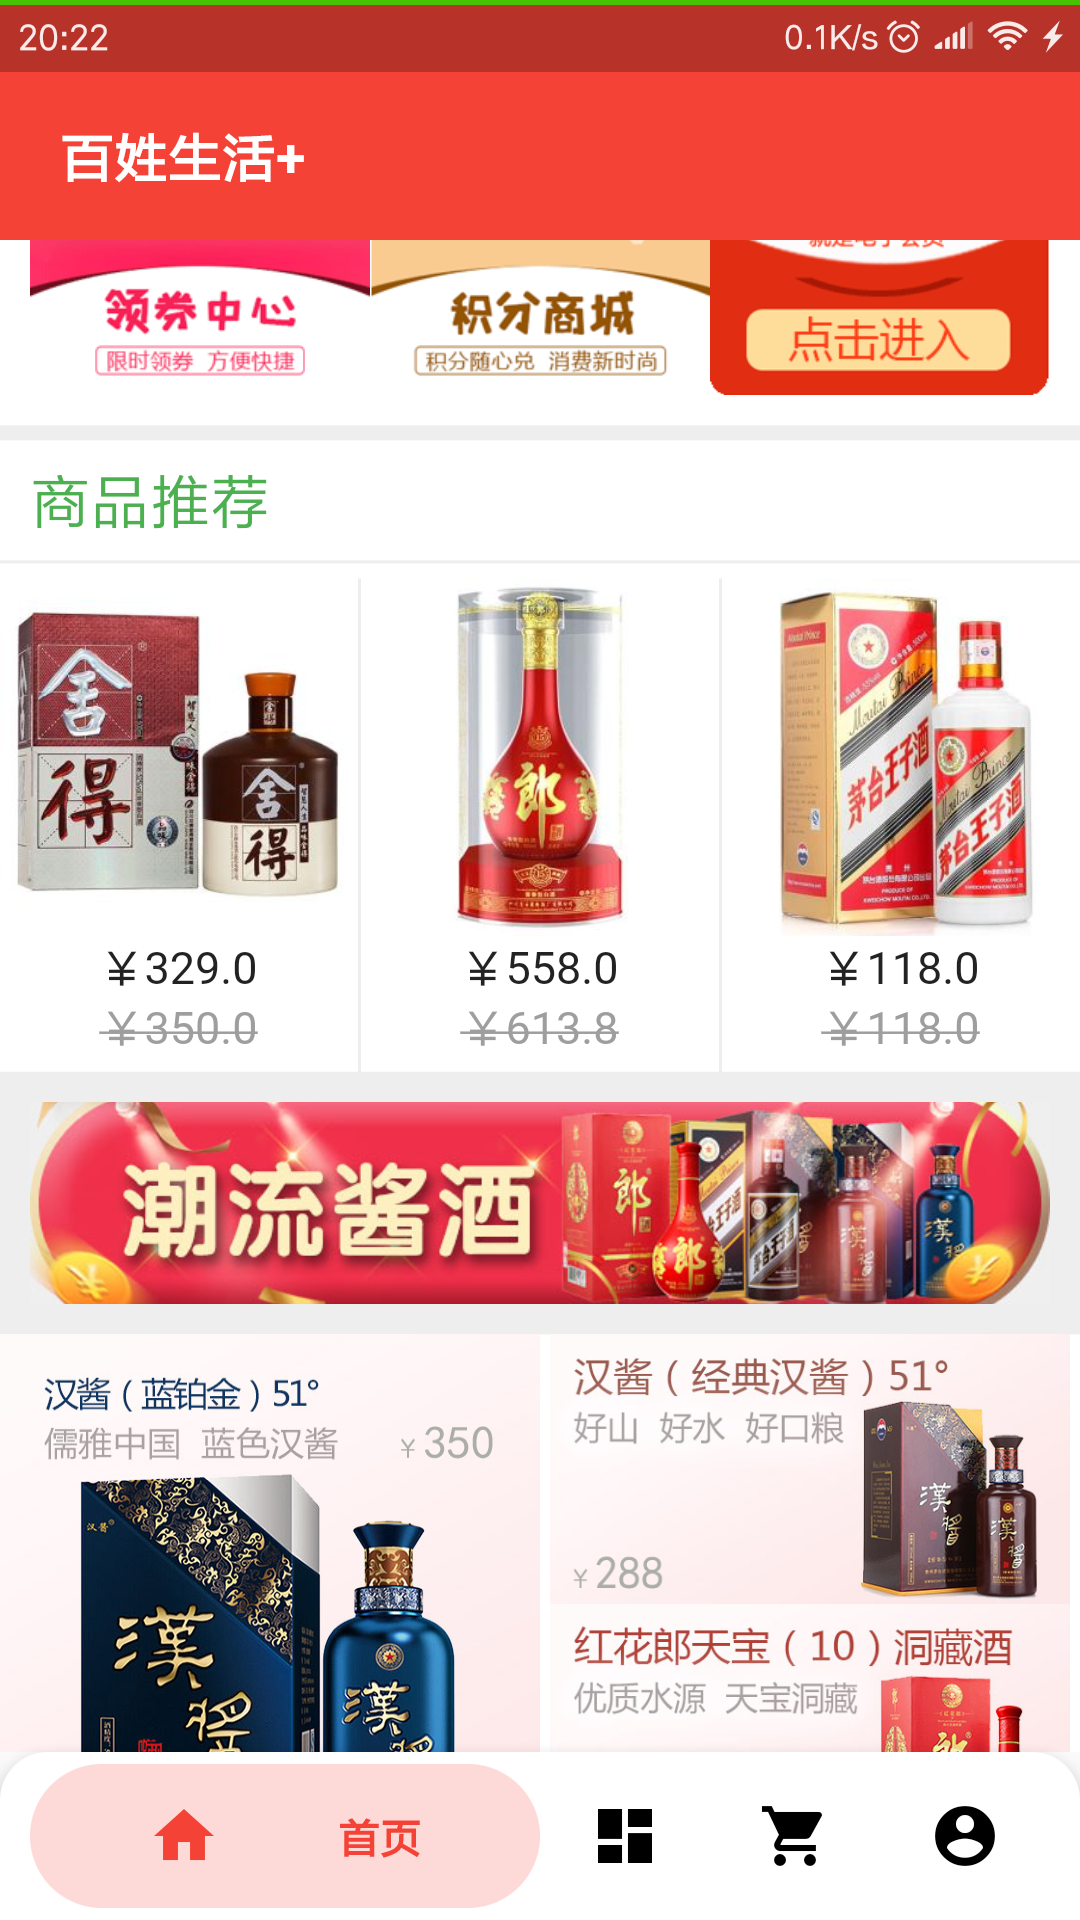
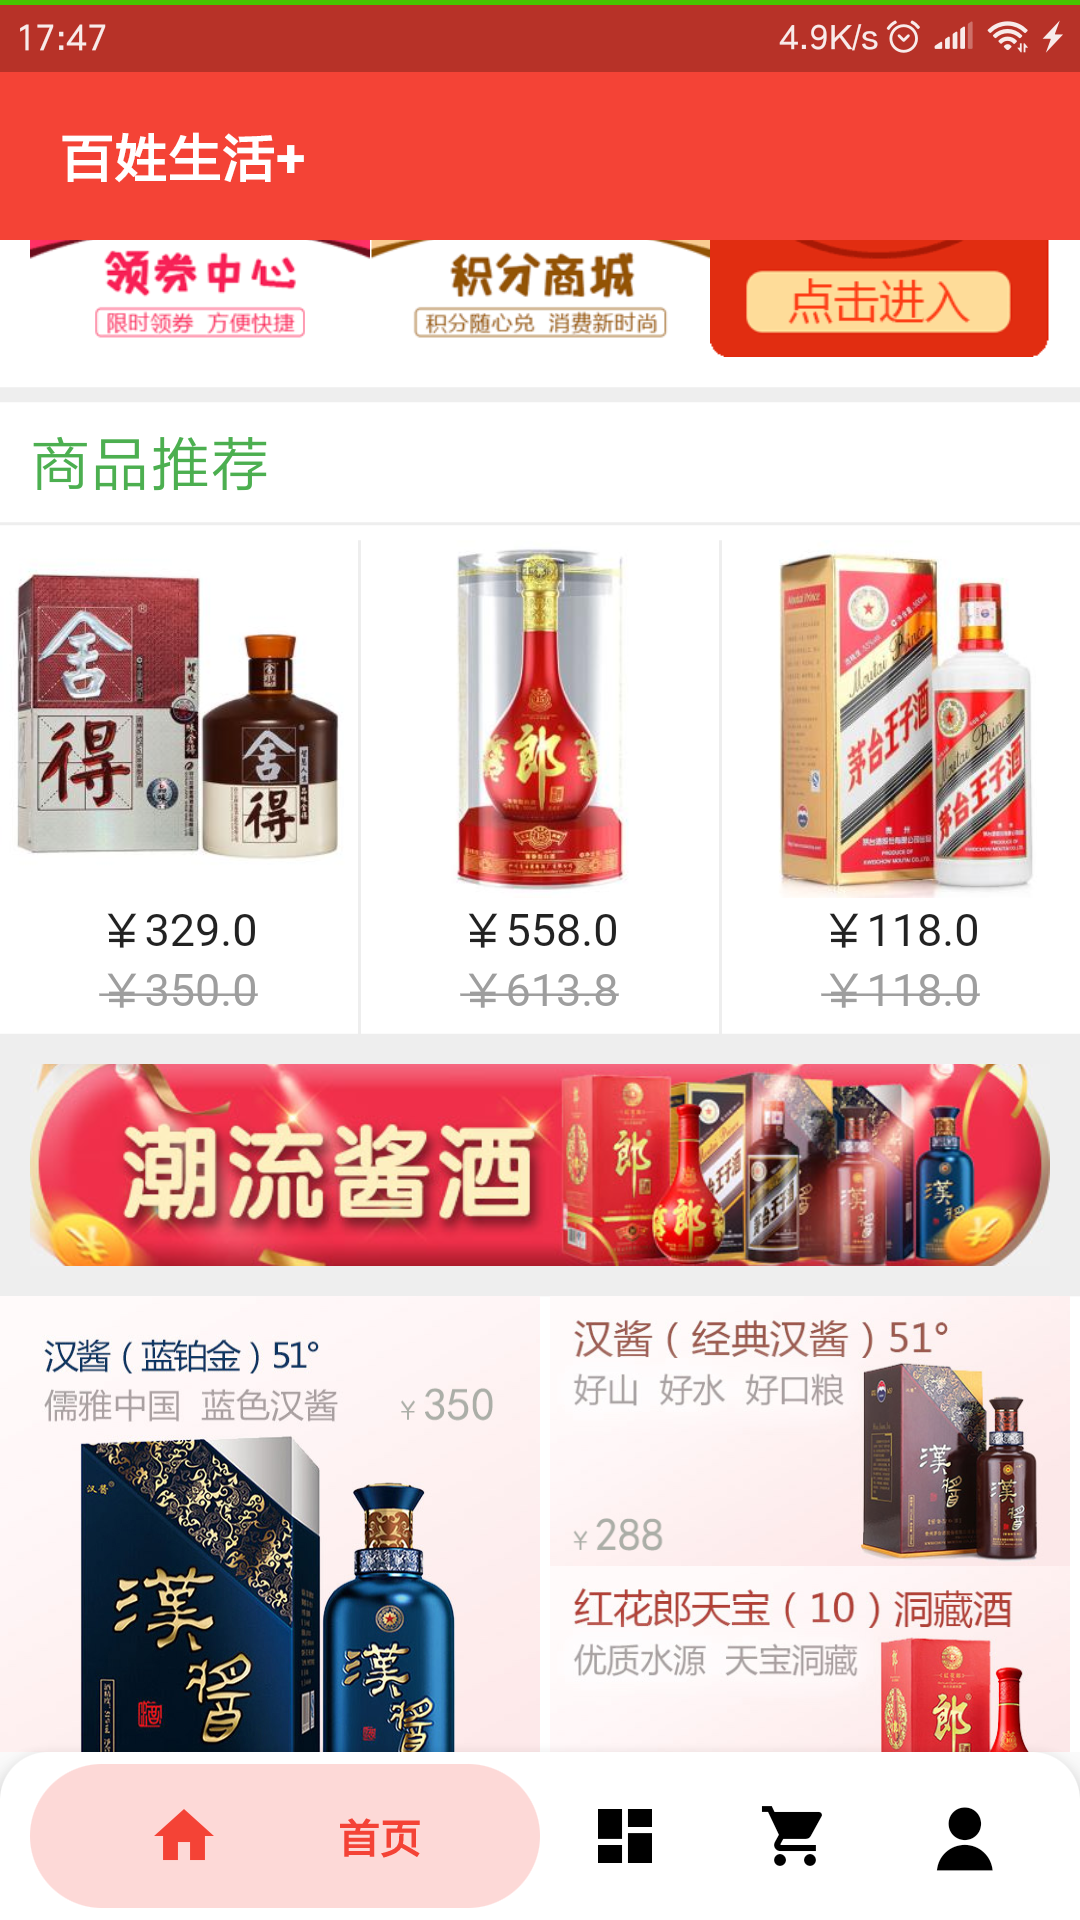
update custom_icon and update screenshot images

diff --git a/lib/baixing_life/index.dart b/lib/baixing_life/index.dart
@@ -5,6 +5,7 @@ import 'package:flutter_app/baixing_life/page/home.dart';
 import 'package:flutter_app/baixing_life/page/member.dart';
 import 'package:flutter_app/baixing_life/page/shopping_cart.dart';
 import 'package:flutter_app/custom_widgets/bubble_bottom_bar.dart';
+import 'package:flutter_app/global/custom_icon.dart';
 
 class IndexPage extends StatefulWidget {
   IndexPage({Key key}) : super(key: key);
@@ -90,11 +91,11 @@ class _IndexPageState extends State<IndexPage>
           BubbleBottomBarItem(
               backgroundColor: Colors.green,
               icon: Icon(
-                Icons.account_circle,
+                CustomIcon.account_full,
                 color: Colors.black,
               ),
               activeIcon: Icon(
-                Icons.account_circle,
+                CustomIcon.account_full,
                 color: Colors.green,
               ),
               title: Text("会员"))

diff --git a/lib/global/custom_icon.dart b/lib/global/custom_icon.dart
@@ -43,4 +43,6 @@ class CustomIcon {
       const IconData(0xe629, fontFamily: 'CustomIcon');
   static const IconData coupon =
       const IconData(0xe628, fontFamily: 'CustomIcon');
+  static const IconData account_full =
+      const IconData(0xe60c, fontFamily: 'CustomIcon');
 }
